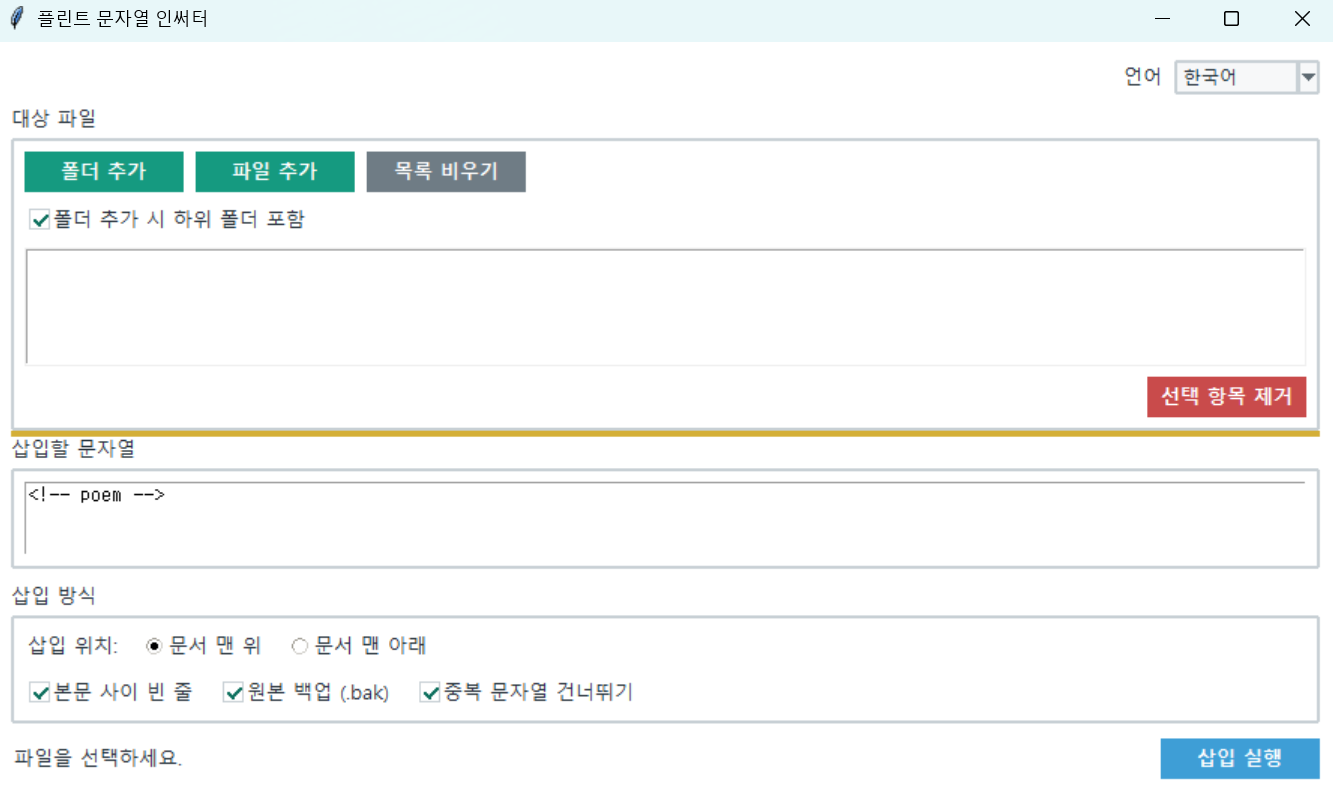
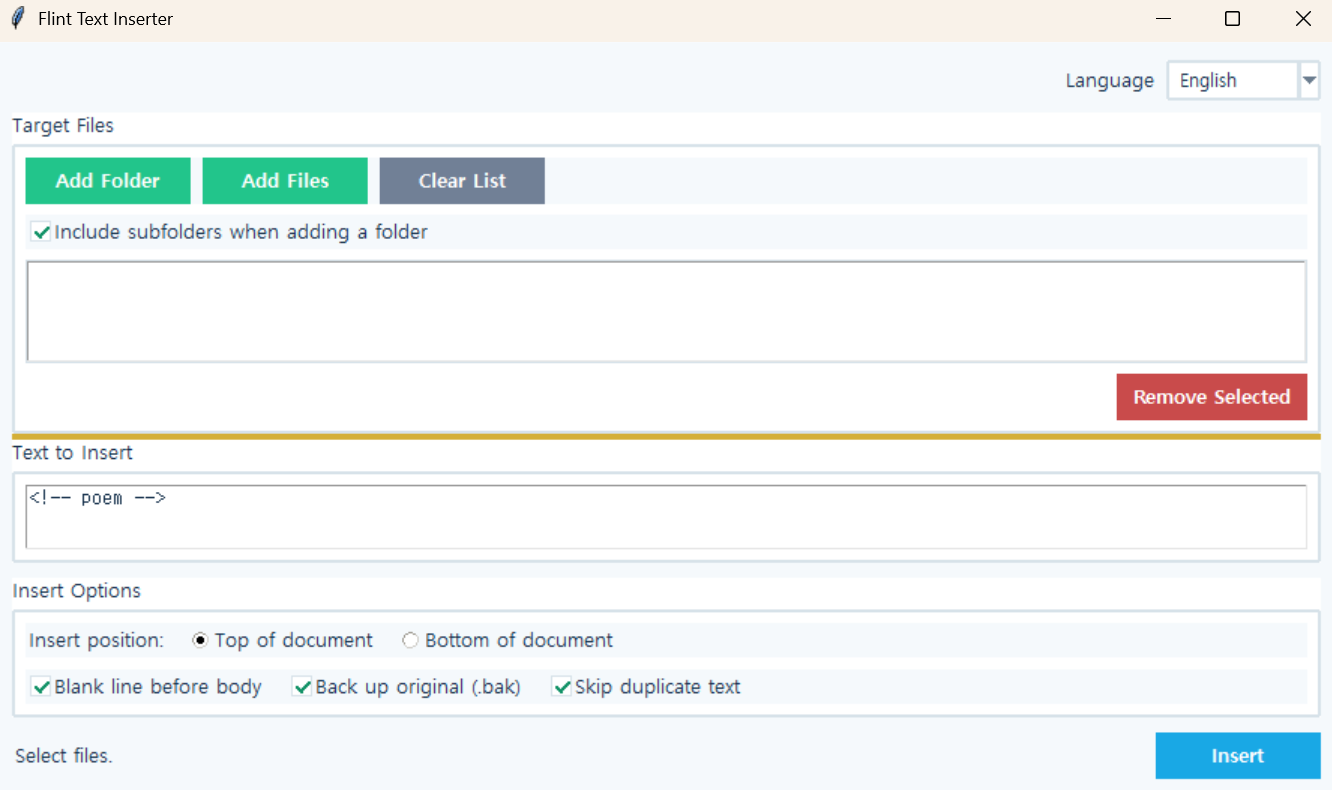
Update badamail: 8 files

Changed region(s): [[0.0, 0.0608, 1.0, 1.0], [0.0, 0.9418, 0.1539, 0.9722], [0.0, 0.0, 0.1539, 0.0304]]

diff --git a/toolbox/fti.html b/toolbox/fti.html
@@ -1,0 +1,63 @@
+<!doctype html>
+<html lang="ko">
+<head>
+  <meta charset="utf-8">
+  <meta name="viewport" content="width=device-width, initial-scale=1">
+  <title>플린트 텍스트 인서터 | 플린트의 공구함</title>
+  <meta name="description" content="여러 텍스트 파일의 문서 맨 위나 맨 아래에 동일한 문자열을 한 번에 삽입하는 도구입니다.">
+  <meta name="robots" content="index, follow">
+  <meta property="og:site_name" content="Blackship">
+  <meta property="og:title" content="플린트 텍스트 인서터 | 플린트의 공구함">
+  <meta property="og:description" content="여러 텍스트 파일의 문서 맨 위나 맨 아래에 동일한 문자열을 한 번에 삽입하는 도구입니다.">
+  <meta property="og:type" content="website">
+  <link rel="alternate" hreflang="ko" href="https://blackship.kr/toolbox/fti.html">
+  <link rel="alternate" hreflang="en" href="https://blackship.kr/en/toolbox/fti.html">
+  <link rel="alternate" hreflang="x-default" href="https://blackship.kr/toolbox/fti.html">
+  <link rel="icon" href="../favicon.ico" type="image/x-icon">
+  <link rel="stylesheet" href="../style.css">
+</head>
+<body>
+  <header class="site-header">
+    <a class="logo" href="../index.html">Blackship</a>
+    <nav class="nav">
+
+      <a href="../index.html">홈</a>
+      <a href="../hidden.html">💎 숨은 보물</a>
+      <a href="../value.html">💰 가성비 보물</a>
+      <a href="../popular.html">🔥 인기 보물</a>
+      <a href="../random.html">🎲 랜덤 보물</a>
+      <a href="../toolbox.html">🧰 공구함</a>
+      <a href="../badamail.html">바다메일</a>
+    </nav>
+  </header>
+
+  <main>
+    
+        <article class="detail toolbox-detail">
+          <div class="toolbox-detail-media">
+            <img src="images/fti.png" alt="플린트 텍스트 인서터" loading="lazy">
+          </div>
+          <div class="toolbox-detail-content">
+            <h1>플린트 텍스트 인서터</h1>
+            <p class="toolbox-detail-version">버전: 1.0.0</p>
+            <div class="toolbox-detail-description">
+              <h2>Flint Text Inserter</h2><p>여러 텍스트 파일의 문서 맨 위나 맨 아래에 동일한 문자열을 한 번에 삽입하는 도구입니다.</p><p>Markdown 문서에 <code>&lt;!-- poem --&gt;</code> 같은 분류용 주석이나 고정된 머리말·꼬리말을 여러 파일에 일괄로 추가할 때 사용할 수 있습니다.</p><h3>사용 방법</h3><ol><li><code>파일 추가</code>를 눌러 작업할 파일을 직접 선택하거나 <code>폴더 추가</code>를 눌러 작업할 폴더를 선택합니다.</li><li>폴더를 선택하면 지원되는 파일을 하위 폴더까지 찾아 목록에 추가합니다.</li><li><code>삽입할 문자열</code>을 입력합니다.</li><li><code>문서 맨 위</code> 또는 <code>문서 맨 아래</code>를 선택합니다.</li><li>빈 줄, 백업, 중복 방지 옵션을 확인합니다.</li><li><code>삽입 실행</code>을 누릅니다.</li></ol><p>예시:</p><pre><code class="language-md">&lt;!-- poem --&gt;
+
+# 바람이 된 마음</code></pre><h3>주요 기능</h3><ul><li>여러 파일에 동일한 문자열 일괄 삽입</li><li>문서 맨 위 또는 맨 아래 삽입</li><li>폴더 내 지원 파일 일괄 추가</li><li>하위 폴더 포함 검색</li><li>삽입 문자열과 본문 사이의 빈 줄 선택</li><li>같은 문자열이 이미 있으면 자동 건너뛰기</li><li>UTF-8, CP949, EUC-KR 인코딩 지원</li><li>기존 줄바꿈 형식 유지</li><li>원본 파일 자동 백업</li></ul><p>지원 확장자:</p><pre><code class="language-text">.txt .md .markdown .html .htm .css .js .py .json .yml .yaml</code></pre><p>실행:</p><pre><code class="language-bash">python inserter.py</code></pre><blockquote><p><code>참고:</code> 실행 파일(EXE) 버전을 사용하는 경우에는 python 명령을 실행할 필요가 없습니다.</p></blockquote>
+            </div>
+            <div class="toolbox-detail-actions">
+              <a class="buy-button" href="https://github.com/flinthawke/toolbox/releases/download/fti-v1.0.0/fti.1.0.0.portable.zip">다운로드</a> <a class="badamail-link" href="https://github.com/flinthawke/toolbox/releases/tag/fti-v1.0.0" target="_blank" rel="noopener">GitHub에서 소스 보기</a>
+            </div>
+            <p class="toolbox-detail-back"><a class="badamail-link" href="../toolbox.html">공구함으로 돌아가기</a></p>
+          </div>
+        </article>
+        
+  </main>
+
+  <footer class="site-footer">
+    <p>본 프로그램은 있는 그대로(AS IS) 제공됩니다. 사용으로 인해 발생하는 데이터 손실이나 기타 문제에 대해서는 책임을 지지 않습니다.</p>
+    <p>중요한 파일은 반드시 백업한 후 사용하시기 바랍니다.</p>
+  </footer>
+  <img class="visitor-counter-tracker" src="https://hits.sh/blackship.kr.svg?label=visitors&amp;color=000000&amp;labelColor=000000" alt="" width="1" height="1" aria-hidden="true">
+</body>
+</html>

diff --git a/en/toolbox/fti.html b/en/toolbox/fti.html
@@ -1,0 +1,63 @@
+<!doctype html>
+<html lang="en">
+<head>
+  <meta charset="utf-8">
+  <meta name="viewport" content="width=device-width, initial-scale=1">
+  <title>Flint Text Inserter | Flint&#x27;s Toolbox</title>
+  <meta name="description" content="A tool for inserting the same text at the beginning or end of multiple text files at once.">
+  <meta name="robots" content="index, follow">
+  <meta property="og:site_name" content="Blackship">
+  <meta property="og:title" content="Flint Text Inserter | Flint&#x27;s Toolbox">
+  <meta property="og:description" content="A tool for inserting the same text at the beginning or end of multiple text files at once.">
+  <meta property="og:type" content="website">
+  <link rel="alternate" hreflang="ko" href="https://blackship.kr/toolbox/fti.html">
+  <link rel="alternate" hreflang="en" href="https://blackship.kr/en/toolbox/fti.html">
+  <link rel="alternate" hreflang="x-default" href="https://blackship.kr/toolbox/fti.html">
+  <link rel="icon" href="../favicon.ico" type="image/x-icon">
+  <link rel="stylesheet" href="../style.css">
+</head>
+<body>
+  <header class="site-header">
+    <a class="logo" href="../index.html">Blackship</a>
+    <nav class="nav">
+
+      <a href="../index.html">Home</a>
+      <a href="../hidden.html">💎 Hidden Treasures</a>
+      <a href="../value.html">💰 Value Treasures</a>
+      <a href="../popular.html">🔥 Popular Treasures</a>
+      <a href="../random.html">🎲 Random Treasure</a>
+      <a href="../toolbox.html">🧰 Toolbox</a>
+      <a href="../badamail.html">Sea Mail</a>
+    </nav>
+  </header>
+
+  <main>
+    
+        <article class="detail toolbox-detail">
+          <div class="toolbox-detail-media">
+            <img src="images/fti_en.png" alt="Flint Text Inserter" loading="lazy">
+          </div>
+          <div class="toolbox-detail-content">
+            <h1>Flint Text Inserter</h1>
+            <p class="toolbox-detail-version">Version: 1.0.0</p>
+            <div class="toolbox-detail-description">
+              <h2>Flint Text Inserter</h2><p>A tool for inserting the same text at the beginning or end of multiple text files at once.</p><p>It can be used to batch-add classification comments such as <code>&lt;!-- poem --&gt;</code> to Markdown documents, as well as fixed headers or footers across multiple files.</p><h3>How to Use</h3><ol><li>Click <code>Add Files</code> to select files directly, or <code>Add Folder</code> to select a folder.</li><li>When a folder is selected, supported files are searched recursively through its subfolders and added to the list.</li><li>Enter the text in <code>Text to Insert</code>.</li><li>Select <code>Top of Document</code> or <code>Bottom of Document</code>.</li><li>Check the blank line, backup, and duplicate prevention options.</li><li>Click <code>Run Insertion</code>.</li></ol><p>Example:</p><pre><code class="language-md">&lt;!-- poem --&gt;
+
+# A Heart Turned to Wind</code></pre><h3>Features</h3><ul><li>Insert the same text into multiple files at once</li><li>Insert text at the beginning or end of a document</li><li>Batch-add supported files from a folder</li><li>Recursive search through subfolders</li><li>Optional blank lines between the inserted text and document content</li><li>Automatically skips files that already contain the same text</li><li>Supports UTF-8, CP949, and EUC-KR encodings</li><li>Preserves the original line ending format</li><li>Automatic backup of original files</li></ul><p>Supported extensions:</p><pre><code class="language-text">.txt .md .markdown .html .htm .css .js .py .json .yml .yaml</code></pre><p>Run:</p><pre><code class="language-bash">python inserter.py</code></pre><blockquote><p><strong>Note:</strong> If you are using the executable (EXE) version, you do not need to run any Python commands.</p></blockquote>
+            </div>
+            <div class="toolbox-detail-actions">
+              <a class="buy-button" href="https://github.com/flinthawke/toolbox/releases/download/fti-v1.0.0/fti.1.0.0.portable.zip">Download</a> <a class="badamail-link" href="https://github.com/flinthawke/toolbox/releases/tag/fti-v1.0.0" target="_blank" rel="noopener">View source on GitHub</a>
+            </div>
+            <p class="toolbox-detail-back"><a class="badamail-link" href="../toolbox.html">Back to Toolbox</a></p>
+          </div>
+        </article>
+        
+  </main>
+
+  <footer class="site-footer">
+    <p>This program is provided AS IS, without any warranty. The author is not responsible for data loss or any other issues resulting from its use.</p>
+    <p>Please back up important files before using this program.</p>
+  </footer>
+  <img class="visitor-counter-tracker" src="https://hits.sh/blackship.kr.svg?label=visitors&amp;color=000000&amp;labelColor=000000" alt="" width="1" height="1" aria-hidden="true">
+</body>
+</html>

diff --git a/toolbox.html b/toolbox.html
@@ -36,15 +36,15 @@
   <main>
     <h1>플린트의 공구함</h1><p>플린트호크가 항해에 쓸 만한 도구를 모아둔 공구함입니다.<br>원자력포, 반중력 순항장치, 대왕문어 퇴치기 등도 있지만 공개하지 않습니다.</p><div class="update-notice"><strong>Windows 실행 안내</strong><br>Windows에서 다운로드한 실행 파일이 보안 기능에 의해 차단될 수 있습니다.<br>실행되지 않는 경우 파일을 마우스 오른쪽 버튼으로 클릭한 후 <strong>속성 → 차단 해제 → 적용</strong>을 선택하고 다시 실행해 주세요.<br>Flint 도구는 별도의 코드 서명 인증서를 사용하지 않으므로 <strong>알 수 없는 게시자</strong>로 표시될 수 있습니다.</div><section class="grid">
         <article class="product-card card toolbox-card">
-          <a class="toolbox-card-media" href="toolbox/fsf.html">
-            <img src="toolbox/images/fsf.png" alt="플린트 스트링 파인더" loading="lazy">
+          <a class="toolbox-card-media" href="toolbox/fti.html">
+            <img src="toolbox/images/fti.png" alt="플린트 텍스트 인서터" loading="lazy">
           </a>
           <div class="product-body card-body toolbox-card-body">
-            <h2><a href="toolbox/fsf.html">플린트 스트링 파인더</a></h2>
-            <p>여러 드라이브나 폴더에서 특정 문자열이 포함된 파일을 찾는 Windows용 GUI 검색 도구입니다.</p>
+            <h2><a href="toolbox/fti.html">플린트 텍스트 인서터</a></h2>
+            <p>여러 텍스트 파일의 문서 맨 위나 맨 아래에 동일한 문자열을 한 번에 삽입하는 도구입니다.</p>
             <div class="toolbox-card-footer">
               <p class="toolbox-card-version">버전: 1.0.0</p>
-              <a class="buy-button" href="toolbox/fsf.html">설명 및 설치 방법</a>
+              <a class="buy-button" href="toolbox/fti.html">설명 및 설치 방법</a>
             </div>
           </div>
         </article>
@@ -59,6 +59,20 @@
             <div class="toolbox-card-footer">
               <p class="toolbox-card-version">버전: 1.0.0</p>
               <a class="buy-button" href="toolbox/fim.html">설명 및 설치 방법</a>
+            </div>
+          </div>
+        </article>
+        
+        <article class="product-card card toolbox-card">
+          <a class="toolbox-card-media" href="toolbox/fsf.html">
+            <img src="toolbox/images/fsf.png" alt="플린트 스트링 파인더" loading="lazy">
+          </a>
+          <div class="product-body card-body toolbox-card-body">
+            <h2><a href="toolbox/fsf.html">플린트 스트링 파인더</a></h2>
+            <p>여러 드라이브나 폴더에서 특정 문자열이 포함된 파일을 찾는 Windows용 GUI 검색 도구입니다.</p>
+            <div class="toolbox-card-footer">
+              <p class="toolbox-card-version">버전: 1.0.0</p>
+              <a class="buy-button" href="toolbox/fsf.html">설명 및 설치 방법</a>
             </div>
           </div>
         </article>

diff --git a/en/toolbox.html b/en/toolbox.html
@@ -36,15 +36,15 @@ It also contains a nuclear cannon, an anti-gravity cruise system, and a giant sq
   <main>
     <h1>Flint&#x27;s Toolbox</h1><p>Flinthawk&#x27;s toolbox is stocked with useful gear for the voyage.<br>It also contains a nuclear cannon, an anti-gravity cruise system, and a giant squid repeller, but those are not available to the public.</p><div class="update-notice"><strong>Windows Run Notice</strong><br>Windows security features may block executable files downloaded from the internet.<br>If an application does not run, right-click the file and select <strong>Properties → Unblock → Apply</strong>, then try again.<br>Because Flint tools are not digitally signed with a code-signing certificate, Windows may display <strong>Unknown publisher</strong>.</div><section class="grid">
         <article class="product-card card toolbox-card">
-          <a class="toolbox-card-media" href="toolbox/fsf.html">
-            <img src="toolbox/images/fsf_en.png" alt="Flint String Finder" loading="lazy">
+          <a class="toolbox-card-media" href="toolbox/fti.html">
+            <img src="toolbox/images/fti_en.png" alt="Flint Text Inserter" loading="lazy">
           </a>
           <div class="product-body card-body toolbox-card-body">
-            <h2><a href="toolbox/fsf.html">Flint String Finder</a></h2>
-            <p>A Windows GUI search tool for finding files that contain specific text across multiple drives or folders.</p>
+            <h2><a href="toolbox/fti.html">Flint Text Inserter</a></h2>
+            <p>A tool for inserting the same text at the beginning or end of multiple text files at once.</p>
             <div class="toolbox-card-footer">
               <p class="toolbox-card-version">Version: 1.0.0</p>
-              <a class="buy-button" href="toolbox/fsf.html">View details</a>
+              <a class="buy-button" href="toolbox/fti.html">View details</a>
             </div>
           </div>
         </article>
@@ -59,6 +59,20 @@ It also contains a nuclear cannon, an anti-gravity cruise system, and a giant sq
             <div class="toolbox-card-footer">
               <p class="toolbox-card-version">Version: 1.0.0</p>
               <a class="buy-button" href="toolbox/fim.html">View details</a>
+            </div>
+          </div>
+        </article>
+        
+        <article class="product-card card toolbox-card">
+          <a class="toolbox-card-media" href="toolbox/fsf.html">
+            <img src="toolbox/images/fsf_en.png" alt="Flint String Finder" loading="lazy">
+          </a>
+          <div class="product-body card-body toolbox-card-body">
+            <h2><a href="toolbox/fsf.html">Flint String Finder</a></h2>
+            <p>A Windows GUI search tool for finding files that contain specific text across multiple drives or folders.</p>
+            <div class="toolbox-card-footer">
+              <p class="toolbox-card-version">Version: 1.0.0</p>
+              <a class="buy-button" href="toolbox/fsf.html">View details</a>
             </div>
           </div>
         </article>
